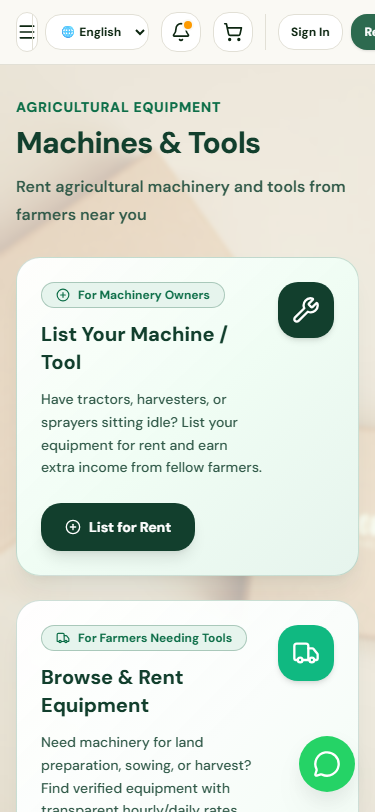
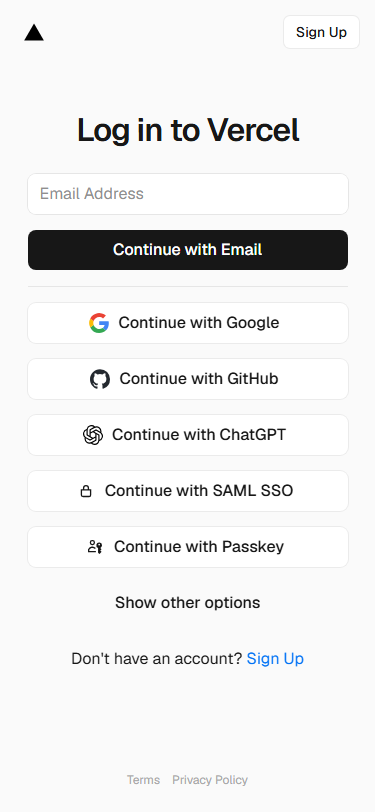
fix(cold-storage): enable public guest access for cold storage directory

diff --git a/src/components/pages.tsx b/src/components/pages.tsx
@@ -7201,7 +7201,7 @@ export function ColdStoragePage() {
   const hasMore = visibleFacilities.length < facilities.length;
 
   return (
-    <RoleGuard allowedRoles={["farmer", "buyer", "admin"]}>
+    <RoleGuard allowedRoles={["farmer", "buyer", "admin", "student", "seller"]} allowGuest={true}>
       <PageShell
         eyebrow={t("Government Verified Infrastructure Directory")}
         title={t("Cold Storage Directory — AP & Telangana")}

diff --git a/scratch/verify_prod_images.py b/scratch/verify_prod_images.py
@@ -14,7 +14,7 @@ async def verify_images():
         page.on("pageerror", lambda err: page_errors.append(str(err)))
 
         print("1. Opening /machines-tools on production...")
-        await page.goto("https://fresh-produce-connect-main.vercel.app/machines-tools", wait_until="networkidle")
+        await page.goto("https://fresh-produce-connect-main-gujrph1uj-klavanya0704s-projects.vercel.app/machines-tools", wait_until="networkidle")
         await page.wait_for_timeout(3000)
 
         # Scroll to ensure images load
